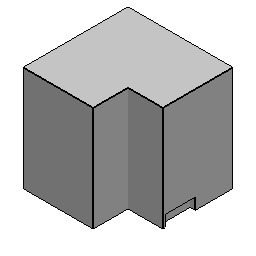
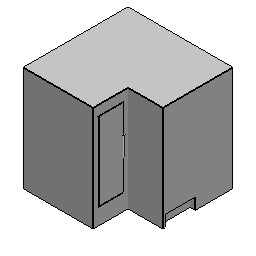
Give a base unit an inside, so the sink drops into it
Removing the worktop only swapped which slab the sink's rim sat on. The
carcass was a solid block and the sink's body was a slab the size of its own
footprint, so the bowl was buried in cabinet material either way - there was
no hole to drop it into.

A base unit is a box. Its top is the worktop, or the sink in it, so
`_shared.carcass(..., open_top=True)` now hollows the carcass and leaves it
open: 18mm walls, back and floor, floored at the plinth. The sink's body is
cut back the same way - the rim keeps the full footprint and everything
below it that is not a bowl is stripped away, so the bowl hangs in the void
with a wall (10mm: thinner than any panel here, thicker than steel) the
cabinet's interior can see. The rim lands on the box's 18mm edges exactly as
a drop-in sink lands on a worktop's cut-out.

The worktop now meets the carcass's edges rather than a solid face, and two
solids meeting on a coincident face fuse to a compound of two - a part that
reads as one object and behaves as two. The corner unit's L-top did exactly
that. Both tops now dip a millimetre into the carcass; the extra millimetre
is under the surface, so the Height the unit advertises is still the top's
face.

The corner unit had a worse problem, and had had it since it was written:
its door reveal and its handle were marked at `width - return_width + inset`
on the plane `depth - return_depth` - a leg too far over, inside the return
[…]

Changed region(s): [[0.4062, 0.375, 0.5, 0.75], [0.375, 0.4375, 0.4375, 0.8125], [0.4375, 0.75, 0.4688, 0.7812]]

diff --git a/archplus/tools/partslib/library/basic/sink/builder.py b/archplus/tools/partslib/library/basic/sink/builder.py
@@ -16,11 +16,17 @@ _DEFAULT_SIZES = {
 
 # The rim is the worktop thickness it sits in, so the manifest's offset can
 # drop the rim's top face onto the worktop's. Everything below it is bowl:
-# the pressed bowl hangs the distance into the carcass a real one does, which
-# is what makes this read as a sink rather than a tray.
+# the pressed bowl hangs the distance into the cabinet a real one does -
+# through the opening a worktopless unit leaves - which is what makes this
+# read as a sink rather than a tray.
 _RIM_THICKNESS = 40.0
 _BOWL_DEPTH = 190.0
 _BOWL_FLOOR = 12.0
+# The bowl's wall. Steel is thinner than this, but the wall is the face you
+# see hanging in a cabinet's interior when the sink drops into an open-topped
+# unit, and a bowl with no wall is a sliver OCC still has to tessellate.
+# It also sets how wide the rim reads: the bowl's margin plus this.
+_BOWL_WALL = 10.0
 # The bowl's margin at the sides and front, and the wider deck left along
 # the back: a sink's back rim is the ledge the tap is mounted on, and a bowl
 # inset evenly all round would leave the tap standing over the bowl with
@@ -41,16 +47,53 @@ def _default_size(count):
     return _DEFAULT_SIZES.get(count, _DEFAULT_SIZES[1])
 
 
-def _bowl_cutters(count, width, depth, height):
-    """One (x, y, z, length, width, height) cavity per bowl."""
+def _bowl_prisms(count, width, depth):
+    """One (x, y, length, width) per bowl: the footprint it hangs on."""
     gap = _BOWL_GAP if count > 1 else 0.0
     bowl_width = (width - 2 * _BOWL_INSET - gap * (count - 1)) / count
     bowl_depth = depth - _BOWL_INSET - _BOWL_BACK_LEDGE
     return [
-        (_BOWL_INSET + i * (bowl_width + gap), _BOWL_INSET, _BOWL_FLOOR,
-         bowl_width, bowl_depth, height - _BOWL_FLOOR + 1.0)
+        (_BOWL_INSET + i * (bowl_width + gap), _BOWL_INSET,
+         bowl_width, bowl_depth)
         for i in range(count)
     ]
+
+
+def _bowl_cutters(count, width, depth, height):
+    """One (x, y, z, length, width, height) cavity per bowl.
+
+    Inset from the bowl's prism by the wall thickness, so the bowl comes out
+    with a wall for the cabinet's interior to show."""
+    return [
+        (x + _BOWL_WALL, y + _BOWL_WALL, _BOWL_FLOOR,
+         bw - 2.0 * _BOWL_WALL, bd - 2.0 * _BOWL_WALL,
+         height - _BOWL_FLOOR + 1.0)
+        for x, y, bw, bd in _bowl_prisms(count, width, depth)
+    ]
+
+
+def _around_bowls(count, width, depth):
+    """Boxes stripping everything below the rim that is not a bowl.
+
+    The body is the rim with the bowls hanging off it, not a slab: a slab
+    would be a solid the size of the whole unit's interior, so the sink would
+    be buried in the cabinet rather than hanging in its void. The strips run
+    the full depth on either side of each bowl, and stop at the bowl's own
+    edges above and below it, so the prisms keep their material."""
+    boxes = []
+    edge = 0.0
+    for x, y, bw, bd in _bowl_prisms(count, width, depth):
+        if x > edge:
+            boxes.append((edge, -1.0, 0.0, x - edge, depth + 2.0,
+                          _BOWL_DEPTH))
+        boxes.append((x, -1.0, 0.0, bw, y + 1.0, _BOWL_DEPTH))
+        boxes.append((x, y + bd, 0.0, bw, depth - y - bd + 1.0,
+                      _BOWL_DEPTH))
+        edge = x + bw
+    if edge < width:
+        boxes.append((edge, -1.0, 0.0, width - edge, depth + 2.0,
+                      _BOWL_DEPTH))
+    return boxes
 
 
 def build(params, assets, ctx):
@@ -80,7 +123,8 @@ def build(params, assets, ctx):
 
     height = _BOWL_DEPTH + _RIM_THICKNESS
     body = sh.rounded_box(width, depth, height, radius=8)
-    body = sh.cut_boxes(body, _bowl_cutters(bowl_count, width, depth, height))
+    body = sh.cut_boxes(body, _bowl_cutters(bowl_count, width, depth, height)
+                        + _around_bowls(bowl_count, width, depth))
 
     # The tap stands on the back deck with its spout reaching over the bowls.
     # Everything about it stays inside the declared Width and Depth: a spout

diff --git a/archplus/tools/partslib/library/basic/corner-base-cabinet/builder.py b/archplus/tools/partslib/library/basic/corner-base-cabinet/builder.py
@@ -1,6 +1,7 @@
 # SPDX-License-Identifier: LGPL-2.1-or-later
 
 from archplus.tools.partslib import shapes as sh
+from .. import _shared
 
 
 # The two corner units are the exception and the only real geometry here.
@@ -25,7 +26,10 @@ def build(params, assets, ctx):
     `Height`, the 40mm a sink's rim fills - see base-cabinet, which explains
     why the top of a worktopless unit is where the work surface goes rather
     than where the carcass ends. Nothing else moves: the L already runs the
-    full plan, so the unit still measures the depth it advertises."""
+    full plan, so the unit still measures the depth it advertises. The L is
+    a box rather than a block, with no top panel - the worktop, or the sink
+    dropped in, is the top - so a sink's bowl hangs in its interior instead
+    of in its material."""
     width = float(params.get("Width", 900))
     depth = float(params.get("Depth", 900))
     height = float(params.get("Height", 900))
@@ -50,22 +54,42 @@ def build(params, assets, ctx):
     box = sh.toe_kick(box, width, depth, kick_height=kick_height,
                       kick_depth=min(45.0, depth * 0.05),
                       margin=width - return_width + 20.0)
-    # One door on each leg of the L, on the two faces that actually face out.
+    # The L is a box too, and a base unit has no top panel: the worktop is
+    # its top, or the sink dropped into it. Two boxes rather than one L,
+    # because an L is a union of two rectangles and a cut stays a box.
+    void_z = kick_height + _shared.PANEL
+    void_h = carcass_height - void_z + 1.0
+    box = sh.cut_boxes(box, [
+        (width - return_width + _shared.PANEL, _shared.PANEL, void_z,
+         return_width - 2.0 * _shared.PANEL, depth - 2.0 * _shared.PANEL,
+         void_h),
+        (_shared.PANEL, depth - return_depth + _shared.PANEL, void_z,
+         width - 2.0 * _shared.PANEL, return_depth - 2.0 * _shared.PANEL,
+         void_h),
+    ])
+    # A door on the face the notch leaves pointing at the room, and its
+    # handle at the door's outer edge. That plane is the only one in the
+    # notch the reveal can mark (-Y), and it is where `face_depth` already
+    # pointed: the door used to be marked a leg too far over, buried inside
+    # the return leg's mass where nothing could see it.
     inset = 40.0
-    box = sh.panel_reveal(box, width - return_width + inset,
+    box = sh.panel_reveal(box, inset,
                           kick_height + inset,
-                          return_width - 2 * inset,
+                          width - return_width - 2 * inset,
                           carcass_height - kick_height - 2 * inset,
                           groove=6.0, depth=8.0,
                           face_depth=depth - return_depth)
 
     parts = [box]
     if with_worktop:
-        top = _l_shape(width, depth, worktop, 6.0)
-        parts.append(sh.place(top, 0, 0, carcass_height))
+        # A millimetre into the carcass, as in base-cabinet: the top lands on
+        # the box's edges now, and a coincident face there fuses to a
+        # compound of two solids rather than to one part.
+        top = _l_shape(width, depth, worktop + 1.0, 6.0)
+        parts.append(sh.place(top, 0, 0, carcass_height - 1.0))
 
     pull = sh.place(sh.bar((carcass_height - kick_height) * 0.22, 7.0,
                             along="z"),
-                     width - 40.0, depth - return_depth,
+                     width - return_width - 40.0, depth - return_depth,
                      kick_height + (carcass_height - kick_height) * 0.4)
     return sh.fuse_all(parts + [pull])

diff --git a/archplus/tools/partslib/library/basic/_shared.py b/archplus/tools/partslib/library/basic/_shared.py
@@ -22,13 +22,31 @@ from archplus.tools.partslib import shapes as sh
 # depth its manifest advertises.
 PULL_RADIUS = 7.0
 
+# The thickness of a carcass's walls, floor and door fronts. Only the units
+# with no top panel need it modelled: it is what a worktop lands on, and what
+# a sink's rim rests on when it drops into an open-topped unit.
+PANEL = 18.0
 
-def carcass(width, depth, height, kick_height, kick_depth, radius=8.0):
-    """A cabinet box standing on a recessed plinth."""
+
+def carcass(width, depth, height, kick_height, kick_depth, radius=8.0,
+            open_top=False):
+    """A cabinet box standing on a recessed plinth.
+
+    `open_top` hollows the box and leaves it without a top panel, which is
+    what a base unit is: its top is the worktop, or the sink dropped into it.
+    The void is inset by a panel on all four sides and floored at the plinth,
+    so a worktop spanning the unit still lands on `PANEL` of material and a
+    sink's rim has an edge to sit on. A wall or tall unit keeps its top
+    panel, and with it the default solid carcass."""
     box = sh.rounded_box(width, depth, height, radius=radius)
-    return sh.toe_kick(box, width, depth,
-                       kick_height=kick_height, kick_depth=kick_depth,
-                       margin=min(20.0, width * 0.04))
+    box = sh.toe_kick(box, width, depth,
+                      kick_height=kick_height, kick_depth=kick_depth,
+                      margin=min(20.0, width * 0.04))
+    if not open_top:
+        return box
+    return sh.cut_box(box, PANEL, PANEL, kick_height + PANEL,
+                      width - 2.0 * PANEL, depth - 2.0 * PANEL,
+                      height - kick_height - PANEL + 1.0)
 
 
 def doors(shape, width, height, door_count, base_z, margin=None,

diff --git a/archplus/freecad_tests/verify_placement.py b/archplus/freecad_tests/verify_placement.py
@@ -195,6 +195,35 @@ def run():
             and abs(rim_top - bare.Height.Value) < 1e-6,
             detail="rim=%.1f..%.1f carcass_top=%.1f Height=%.1f"
             % (rim_underside, rim_top, carcass_top, bare.Height.Value))
+
+    # The unit is a box, not a block, and the bowl hangs inside it: that is
+    # what the worktop's absence is for, and a solid carcass would give the
+    # sink nothing to drop into. Probe the void, a wall and the floor, then
+    # the bowl's own floor and the gap between the bowl's wall and the
+    # cabinet's - air in both parts, which only a hollow unit and a body cut
+    # back to its bowls can give.
+    def solid(obj, point):
+        return obj.Shape.isInside(Vector(*point), 1e-6, False)
+
+    void = solid(bare, (300.0, 300.0, 400.0))
+    wall = solid(bare, (9.0, 300.0, 400.0))
+    floor = solid(bare, (300.0, 300.0, 60.0))
+    h.check("D13 the unit is hollow: a void, its walls, its floor",
+            not void and wall and floor,
+            detail="void=%s wall=%s floor=%s" % (void, wall, floor))
+    bowl_floor = sink_offset + 6.0
+    gap_z = sink_offset + 80.0
+    h.check("D13 the bowl hangs in that void, clear of its walls",
+            solid(sink, (300.0, 300.0, bowl_floor))
+            and not solid(bare, (300.0, 300.0, bowl_floor))
+            and not solid(bare, (24.0, 300.0, gap_z))
+            and not solid(sink, (24.0, 300.0, gap_z)),
+            detail="bowl floor: sink=%s unit=%s; gap: unit=%s sink=%s"
+            % (solid(sink, (300.0, 300.0, bowl_floor)),
+               solid(bare, (300.0, 300.0, bowl_floor)),
+               solid(bare, (24.0, 300.0, gap_z)),
+               solid(sink, (24.0, 300.0, gap_z))))
+
     for obj in (bare, sink):
         doc.removeObject(obj.Name)
 

diff --git a/archplus/tools/partslib/library/basic/base-cabinet/builder.py b/archplus/tools/partslib/library/basic/base-cabinet/builder.py
@@ -40,15 +40,21 @@ def build(params, assets, ctx):
     carcass_height = height - worktop
 
     box = _shared.carcass(width, carcass_depth, carcass_height,
-                          kick_height, min(45.0, depth * 0.08))
+                          kick_height, min(45.0, depth * 0.08),
+                          open_top=True)
     box = _shared.doors(box, width, carcass_height, door_count, kick_height)
     box = sh.place(box, 0, front, 0)
 
     parts = [box]
     if with_worktop:
-        top = sh.rounded_box(width, depth, worktop, radius=6)
+        # The top dips a millimetre into the carcass. It now lands on the
+        # box's edges rather than on a solid face, and two solids meeting on
+        # a coincident face fuse to a compound of two - a part that reads as
+        # one object and behaves as two. The extra millimetre is under the
+        # surface, so the Height it advertises is still the top's face.
+        top = sh.rounded_box(width, depth, worktop + 1.0, radius=6)
         top = sh.roll_top(top, min(worktop * 0.4, 12.0), axis="x")
-        parts.append(sh.place(top, 0, 0, carcass_height))
+        parts.append(sh.place(top, 0, 0, carcass_height - 1.0))
 
     pulls = _shared.pulls(width, carcass_height, door_count, kick_height,
                           front)

diff --git a/docs/PARTS-LIBRARY-VERIFICATION.md b/docs/PARTS-LIBRARY-VERIFICATION.md
@@ -137,17 +137,20 @@ Five parts added to the Kitchen room after the first pass: `basic/sink`,
 `basic/waste-bin`. Their heights and offsets are the part of a new part that
 only a real placement click can show.
 
-- [ ] **K1 (the sink drops into the worktop).** Place a **Base cabinet** and
+- [ ] **K1 (the sink drops into the hole).** Place a **Base cabinet** and
       set its **Worktop** to *Without worktop*: the unit's top drops 40 mm
       below its Height (the top surface reads 86.0 cm while **Height** still
-      says 90.0 — that 40 mm is where the work surface goes). Select **Sink**,
-      set its **Depth** to `600` so its rim covers the whole unit (its 500 mm
-      default leaves the back 100 mm of carcass top showing), then click
-      **Place** and click the floor in front of that unit. The rim's underside
-      lands on the carcass top and its top face becomes the work surface at
-      900 mm — the unit's Height — with the bowl hanging into the cabinet and
-      the tap behind it. Switch **Bowls** to *Double bowl*: the sink widens to
-      1000 mm and the tap stays centred behind the two bowls.
+      says 90.0 — that 40 mm is where the work surface goes), and it is an
+      open-topped box rather than a block — look into it and you see its
+      walls and floor, 18 mm in from the edges. Select **Sink**, set its
+      **Depth** to `600` so its rim reaches the unit's edges (its 500 mm
+      default leaves the back 100 mm of that opening showing, which is the
+      hole at its clearest), then click **Place** and click the floor in
+      front of that unit. The rim's underside lands on the box's edges and
+      its top face becomes the work surface at 900 mm — the unit's Height —
+      with the bowl hanging in the interior and the tap behind it. Switch
+      **Bowls** to *Double bowl*: the sink widens to 1000 mm and the tap
+      stays centred behind the two bowls.
 - [ ] **K2 (the fridge's doors are its size).** Place a **Fridge**: it
       measures 600 × 650 × 1850, Width and Depth shown derived (italic).
       Switch **Doors** to *Double doors*: it rebuilds 750 wide with the

diff --git a/docs/PARTS-LIBRARY.md b/docs/PARTS-LIBRARY.md
@@ -344,6 +344,12 @@ render:
 - **Solid, not scattered.** Where the real object is one soft mass (a sofa),
   model one mass and *cut* the cushion seams into it. Separate floating
   cushions read worse.
+- **A base unit is a box, not a block.** Its top is the worktop, or the sink
+  dropped into it, so `_shared.carcass(..., open_top=True)` hollows the
+  carcass and leaves it open at 18 mm in from every edge. A sink's body is
+  cut back to its bowls for the same reason: the bowl has to hang in the
+  cabinet's interior rather than in its material. Wall and tall units have a
+  top panel of their own and keep the default solid carcass.
 - **Don't round a solid's plan corners and its top edge.** The two fillets
   collide at the corners and leave a picture-frame rim. Use `roll_top` for a
   roll that runs through.
